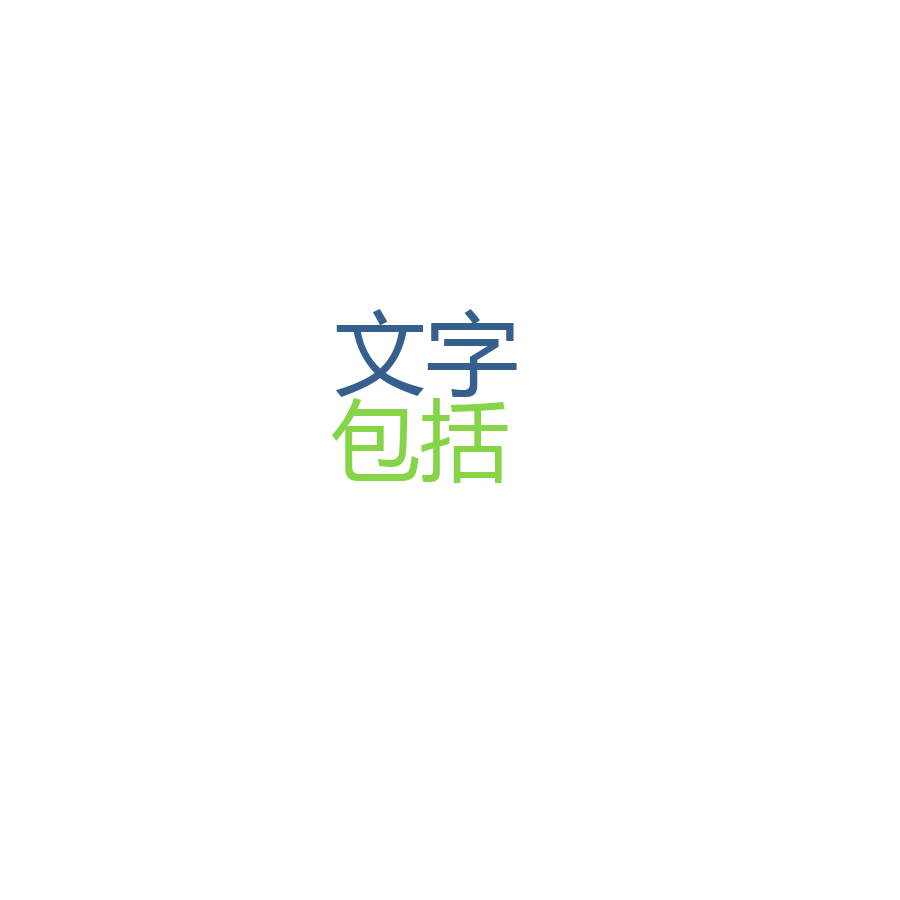
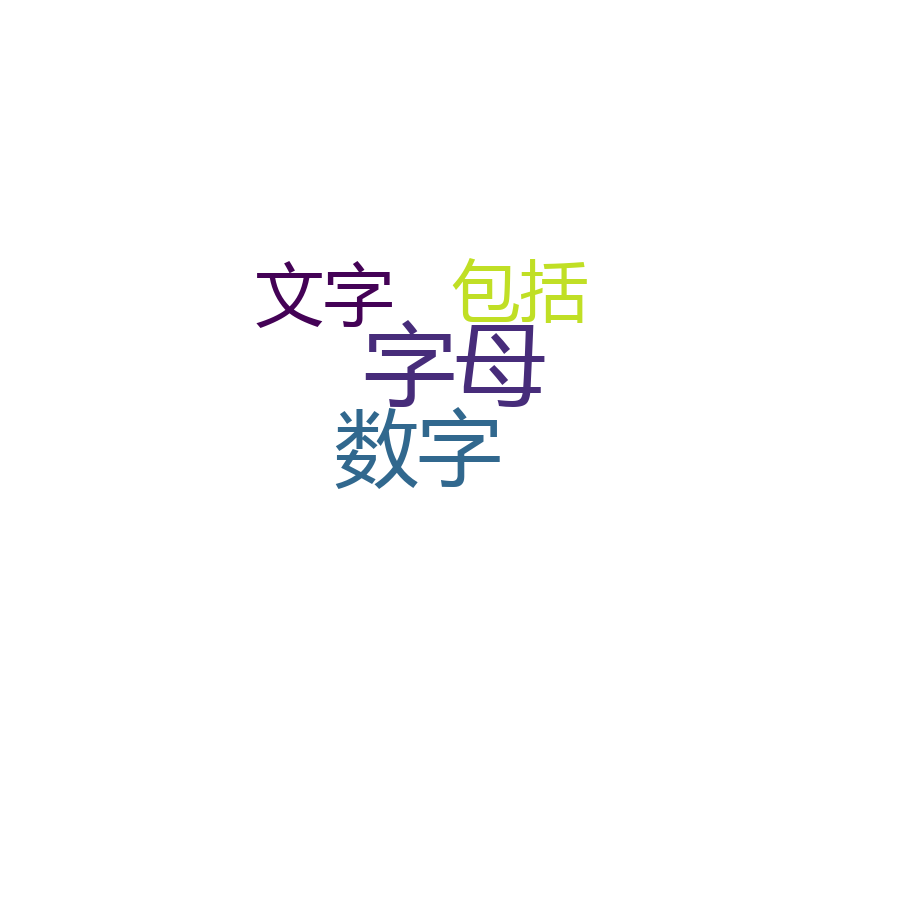
注释更新

Changed region(s): [[0.28, 0.28, 0.6533, 0.56]]

diff --git a/plotWordcloud.py b/plotWordcloud.py
@@ -18,18 +18,18 @@ def generate_wordcloud(seg_text):
     input_mask = np.array(Image.open(path.join(d, "Images//input_mask.png")))
     font_path=path.join(d,"font//msyh.ttf")
 
-    stopwords = set(STOPWORDS) # 设置默认停用词
-    my_stopwords = set() # 添加自定义停用词
+    stopwords = set(STOPWORDS) # 设置默认屏蔽词（停用词）
+    my_stopwords = set() # 添加自定义屏蔽词
     with open(path.join(d, 'doc//stopwords.txt'), encoding='utf-8') as f:
         for line in f:
             my_stopwords.add(line.strip())
     stopwords.update(my_stopwords)
 
-    words = seg_text.split(' ')
+    words = seg_text.split(' ') # 低频词过滤
     words = [w.strip() for w in words if w.strip() and w not in stopwords]
     counter = Counter(words)
-    min_freq = 2 # 设置词频阈值，低于此频率的词将被过滤
-    filtered_words = {word: freq for word, freq in counter.items() if freq >= min_freq}
+    min_freq = 1 # 设置词频阈值，出现次数小于等于此的词将被过滤，默认为1
+    filtered_words = {word: freq for word, freq in counter.items() if freq > min_freq}
 
     wc = WordCloud(background_color="white",# 设置背景颜色
            max_words=2000, # 词云显示的最大词数  

diff --git a/chnSegment.py b/chnSegment.py
@@ -3,7 +3,7 @@
 from collections import Counter
 from os import path
 import jieba
-jieba.load_userdict(path.join(path.dirname(__file__),'userdict//userdict.txt')) # 导入用户自定义词典
+jieba.load_userdict(path.join(path.dirname(__file__),'doc//userdict.txt')) # 导入用户自定义词典
 
 def word_segment(text):
     '''

diff --git a/README.md b/README.md
@@ -12,6 +12,7 @@
 
 * 分词采用结巴分词，并支持自定义字典（userdict.txt）、自定义停用词
 * 分词结果进行词频统计分析，并导出
+* 支持自定义过滤低频词
 * 词云图可自己设定背景图（input_mask.png）
 * 英文词云图不需先进行分词
 
@@ -19,6 +20,6 @@
 
 运行demo.py，会把“input.txt”生成为相应的的词云图，和“doc/词频统计.txt”  
 eg:
-![image](Images/input.png)
+![image](Images/output.png)
 
 
